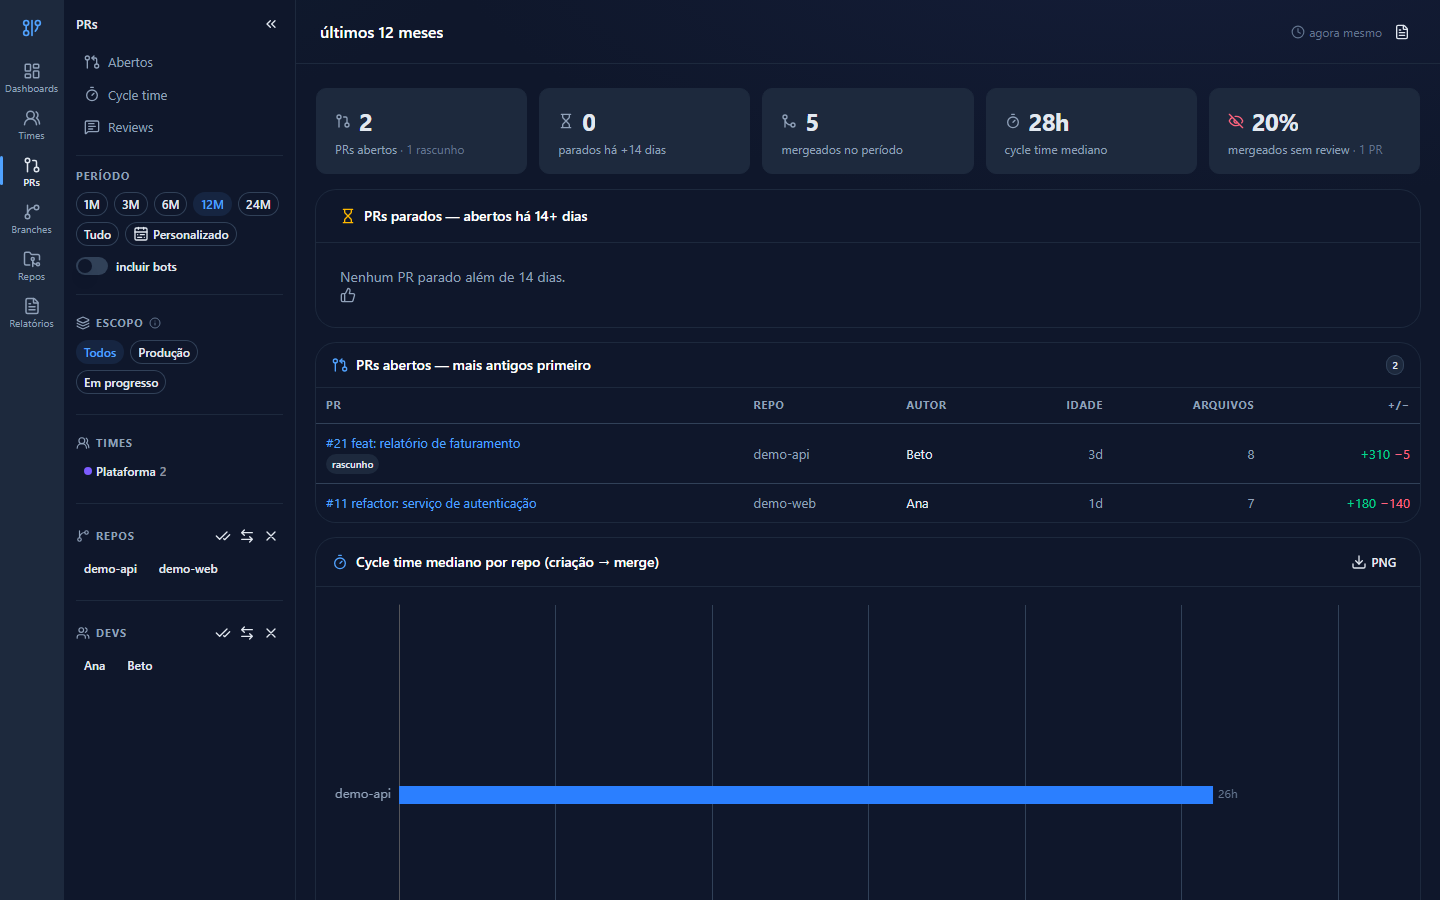
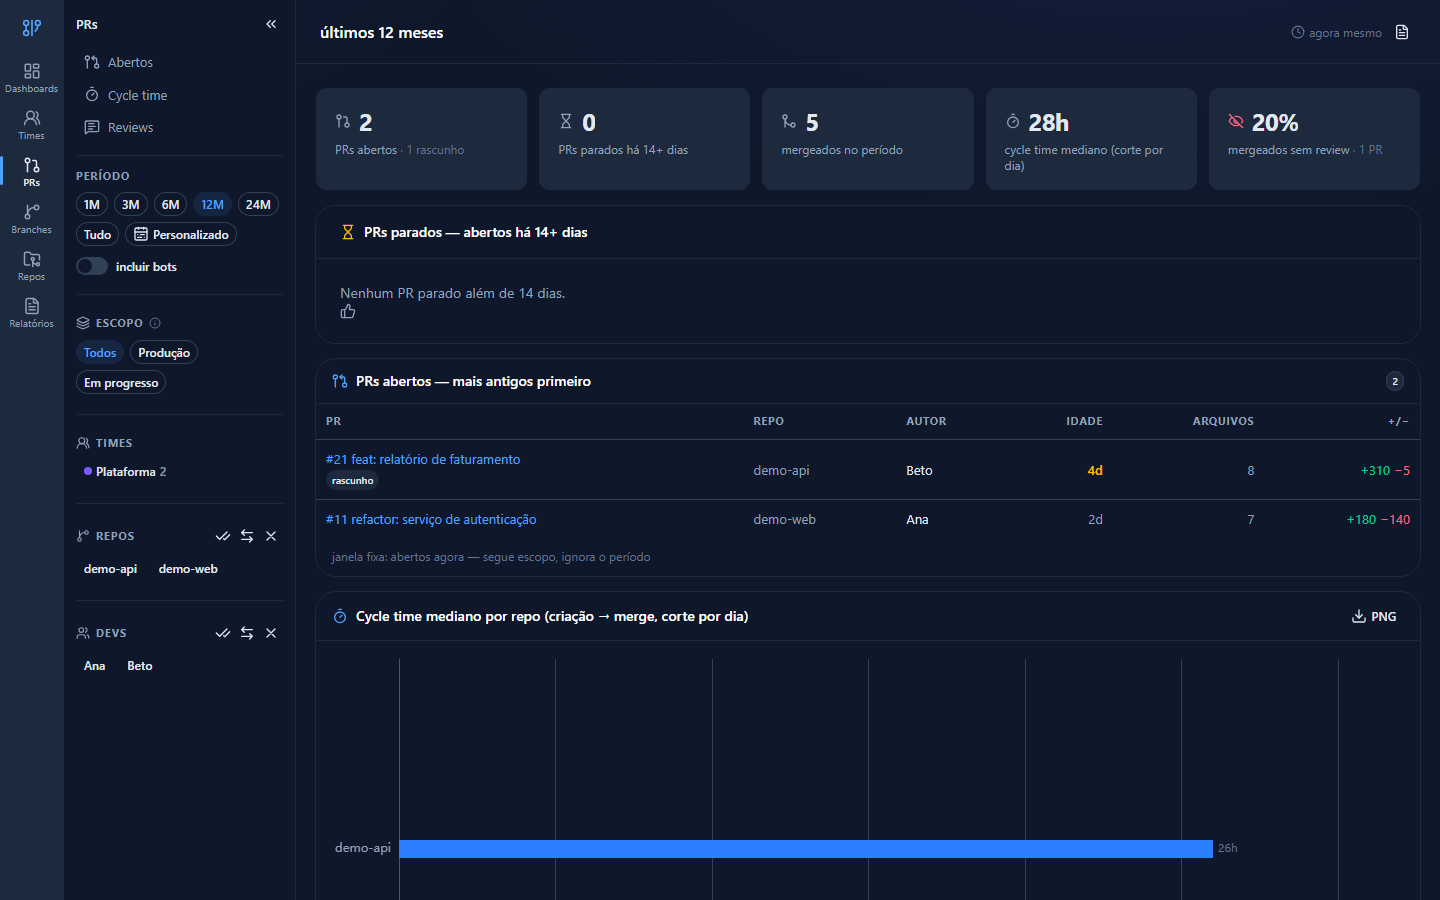
fix(gitview): rótulos de cycle time mediano nomeiam a granularidade do corte
Closes #199

Ref: #199

diff --git a/scripts/check-report.ts b/scripts/check-report.ts
@@ -214,7 +214,7 @@ try {
   ok(orgMd.includes('6 commits (+100% vs semana anterior) · 3 PRs mergeados (+200% vs semana anterior) · cycle time 5,0d · 1 release'), 'org: abertura (frase de ata) na semana fechada')
   ok(orgMd.includes('- repos mais ativos: demo-api (5), demo-web (1)'), 'org: top repos')
   ok(orgMd.includes('- diff: +20/-4 (prod 5 · progresso 1 commits)'), 'org: linha de +/− com quebra prod/progresso (omit-prod)')
-  ok(orgMd.includes('- **3 mergeados** (+200% vs semana anterior), cycle time mediano 5,0d'), 'org: PRs mergeados com delta e cycle time mediano')
+  ok(orgMd.includes('- **3 mergeados** (+200% vs semana anterior), cycle time mediano (janela do relatório) 5,0d'), 'org: PRs mergeados com delta e cycle time mediano')
   ok(orgMd.includes('- 1 aberto agora, **1 parado há 14+ dias**: demo-api#5 (25d)'), 'org: PRs abertos/parados (bots fora)')
   ok(orgMd.includes('- 33% mergeados sem review (1 PR)'), 'org: % de merges sem review')
   ok(orgMd.includes('- top reviewers: Beto (1), Ana (1)'), 'org: top reviewers por nome canônico (ghName do login)')
@@ -251,7 +251,7 @@ try {
   ok(teamMd.includes('- **5 commits** (+67% vs semana anterior), 1 dev ativo, 1 repo ativo'), 'time: commits só dos membros')
   ok(teamMd.includes('5 commits (+67% vs semana anterior) · 1 PR mergeado · cycle time 5,0d · 1 release'), 'time: abertura na semana fechada')
   ok(teamMd.includes('- Ana: 5 commits (+2) · 1 PR mergeado · 1 review'), 'time: linha por dev só dos membros')
-  ok(teamMd.includes('- **1 mergeado**, cycle time mediano 5,0d'), 'time: PRs mergeados por membro; base 0 na semana anterior = sem delta')
+  ok(teamMd.includes('- **1 mergeado**, cycle time mediano (janela do relatório) 5,0d'), 'time: PRs mergeados por membro; base 0 na semana anterior = sem delta')
   ok(teamMd.includes('- top reviewers: Beto (1)'), 'time: reviews de terceiros nos PRs do time')
   ok(teamMd.includes('## Releases'), 'time: releases entram (só org/time)')
   ok(!teamMd.includes('- devs sem commit há 21+ dias: Beto'), 'time: inatividade filtrada aos membros (Beto não é membro)')
@@ -263,14 +263,14 @@ try {
   ok(anaMd.includes('Resumo da semana · Ana —'), 'dev: assunto no título')
   ok(anaMd.includes('5 commits (+67% vs semana anterior) · 1 PR mergeado · cycle time 5,0d'), 'dev: abertura sem parcela de releases (fora do assunto dev)')
   ok(anaMd.includes('- top devs: Ana (5)'), 'dev: bloco de commits mantém o formato atual (sem a seção nova)')
-  ok(anaMd.includes('- **1 mergeado**, cycle time mediano 5,0d'), 'dev: PRs mergeados do dev')
+  ok(anaMd.includes('- **1 mergeado**, cycle time mediano (janela do relatório) 5,0d'), 'dev: PRs mergeados do dev')
   ok(anaMd.includes('- reviews feitas: 1'), 'dev: top reviewers vira "reviews feitas"')
   ok(!anaMd.includes('## Releases'), 'dev: releases fora do assunto dev')
   ok(!anaMd.includes('repos sem commit'), 'dev: repos stale fora do assunto dev')
   ok(!anaMd.includes('- sem time:') && !anaMd.includes('times podem sobrepor'), 'dev: sem bloco de times')
   const betoMd = buildReport({ kind: 'dev', dev: 'Beto' }, lw.from, lw.to, undefined, { people: true })!.markdown
   ok(betoMd.includes('- **1 commit**, 1 dev ativo, 1 repo ativo'), 'dev: singularização commit/dev/repo')
-  ok(betoMd.includes('- **2 mergeados** (+100% vs semana anterior), cycle time mediano 3,0d'), 'dev: cycle time mediano dos PRs do dev')
+  ok(betoMd.includes('- **2 mergeados** (+100% vs semana anterior), cycle time mediano (janela do relatório) 3,0d'), 'dev: cycle time mediano (janela do relatório) dos PRs do dev')
   ok(betoMd.includes('1 commit · 2 PRs mergeados (+100% vs semana anterior) · cycle time 3,0d'), 'dev: abertura omite o delta em base 0 (1 commit sem comparativo)')
   ok(betoMd.includes('- devs sem commit há 21+ dias: Beto'), 'dev: inatividade do próprio dev')
 

diff --git a/src/report.ts b/src/report.ts
@@ -488,7 +488,7 @@ export function buildReport(subject: ReportSubject, from: Date, to: Date, inProg
         .filter(x => x.age >= PR_STALE_DAYS)
         .sort((a, b) => b.age - a.age)
 
-      out.push(`- **${merged.length} ${merged.length === 1 ? 'mergeado' : 'mergeados'}**${delta(merged.length, prevMerged)}, cycle time mediano ${fmtDuration(cycle)}`)
+      out.push(`- **${merged.length} ${merged.length === 1 ? 'mergeado' : 'mergeados'}**${delta(merged.length, prevMerged)}, cycle time mediano (janela do relatório) ${fmtDuration(cycle)}`)
       out.push(`- ${open.length} ${open.length === 1 ? 'aberto agora' : 'abertos agora'}, **${stale.length} ${stale.length === 1 ? 'parado' : 'parados'} há ${PR_STALE_DAYS}+ dias**${stale.length ? `: ${stale.slice(0, 3).map(x => `${x.pr.repo}#${x.pr.number} (${x.age}d)`).join(', ')}${stale.length > 3 ? '…' : ''}` : ''}`)
       out.push(`- ${noReviewPct}% mergeados sem review${noReview.length ? ` (${noReview.length} ${noReview.length === 1 ? 'PR' : 'PRs'})` : ''}`)
       if (subject.kind === 'dev') {

diff --git a/src/components/dev/DevStatCards.vue b/src/components/dev/DevStatCards.vue
@@ -100,7 +100,7 @@ const cards = computed<{ value: string, label: string, icon?: string, color?: st
   if (github.value) {
     base.push(
       { value: String(myOpen.value.length), label: myOpen.value.length === 1 ? 'PR aberto' : 'PRs abertos', icon: 'i-lucide-git-pull-request' },
-      { value: fmtDuration(myCycleHours.value), label: 'cycle time mediano', icon: 'i-lucide-timer' },
+      { value: fmtDuration(myCycleHours.value), label: 'cycle time mediano (PRs do mês)', icon: 'i-lucide-timer' },
       { value: `${myReviews.value.total} (${myReviews.value.approvals} aprovações)`, label: 'reviews feitas', icon: 'i-lucide-eye' },
     )
   }

diff --git a/src/pages/(app)/repos/[name].vue b/src/pages/(app)/repos/[name].vue
@@ -128,7 +128,7 @@ const cards = computed<{ value: string, label: string, icon?: string, color?: st
   if (github.value) {
     base.push(
       { value: String(openPrs.value.length), label: openPrs.value.length === 1 ? 'PR aberto' : 'PRs abertos', icon: 'i-lucide-git-pull-request' },
-      { value: fmtDuration(cycleHours.value), label: 'cycle time mediano', icon: 'i-lucide-timer' },
+      { value: fmtDuration(cycleHours.value), label: 'cycle time mediano (PRs do mês)', icon: 'i-lucide-timer' },
     )
   }
   return base

diff --git a/src/components/PrCycleTime.vue b/src/components/PrCycleTime.vue
@@ -44,5 +44,5 @@ const option = computed<EChartsOption>(() => {
 </script>
 
 <template>
-  <ChartPanel title="Cycle time mediano por repo (criação → merge)" icon="i-lucide-timer" :option="option" tall />
+  <ChartPanel title="Cycle time mediano por repo (criação → merge, corte por dia)" icon="i-lucide-timer" :option="option" tall />
 </template>

diff --git a/src/components/PrSummaryCards.vue b/src/components/PrSummaryCards.vue
@@ -33,7 +33,7 @@ const cards = computed(() => {
     },
     {
       value: fmtDuration(medianCycleHours.value),
-      label: 'cycle time mediano',
+      label: 'cycle time mediano (corte por dia)',
       icon: 'i-lucide-timer',
       sub: null,
     },

diff --git a/docs/pt-BR/guide/tour.md b/docs/pt-BR/guide/tour.md
@@ -32,7 +32,7 @@ Cada nome de dev abre o perfil `/devs/:name`.
 
 Responde o que a pessoa fez no período selecionado. `/dev/:name` continua como alias; nome sem correspondência nos dados mostra **Dev não encontrado** com sugestões **Quis dizer:**.
 
-- Cards de **commits**, **linhas +**, **linhas −** no período, mais os cards históricos **dias ativos**, **commits/dia ativo**, **streak** e **repositórios**: com período ativo ganham o sufixo **(total)**, e sob recorte de escopo leem o eixo selecionado (prod/progresso) quando a linha tem `byScope`, degradando para o total histórico com **(total)** em dado mais antigo; com dados do GitHub, também **PRs abertos**, **cycle time mediano**, **reviews feitas**.
+- Cards de **commits**, **linhas +**, **linhas −** no período, mais os cards históricos **dias ativos**, **commits/dia ativo**, **streak** e **repositórios**: com período ativo ganham o sufixo **(total)**, e sob recorte de escopo leem o eixo selecionado (prod/progresso) quando a linha tem `byScope`, degradando para o total histórico com **(total)** em dado mais antigo; com dados do GitHub, também **PRs abertos**, **cycle time mediano (PRs do mês)**, **reviews feitas**.
 - **Commits por semana** / **Commits por mês** só deste dev.
 - **Distribuição por repositório** (donut) e **Horários de atividade —** *\<janela\>*, que em **Tudo** vira **Horários de atividade — últimos 24 meses** (limite da agregação).
 - **PRs abertos de** *\<primeiro nome\>*: estado atual, não recortado ao período.
@@ -61,8 +61,8 @@ As tabelas ordenam onde existe coluna de risco; os alertas da Visão geral apont
 
 Depende dos dados do GitHub, coletados com `gh` autenticado; sem eles a página mostra **Sem dados do GitHub**. O sub-nav contextual cobre três âncoras e os alertas da Visão geral caem em `#abertos` e `#reviews`.
 
-- `#abertos`: cards **PRs abertos** (com linha auxiliar de rascunhos), **PRs parados há 14+ dias**, **mergeados no período**, **cycle time mediano**, **mergeados sem review**; depois **PRs parados — abertos há 14+ dias** e **PRs abertos — mais antigos primeiro**.
-- `#cycle-time`: **Cycle time mediano por repo (criação → merge)** e **Tendência de cycle time — últimos 6 meses**, de janela fixa.
+- `#abertos`: cards **PRs abertos** (com linha auxiliar de rascunhos), **PRs parados há 14+ dias**, **mergeados no período**, **cycle time mediano (corte por dia)**, **mergeados sem review**; depois **PRs parados — abertos há 14+ dias** e **PRs abertos — mais antigos primeiro**.
+- `#cycle-time`: **Cycle time mediano por repo (criação → merge, corte por dia)** e **Tendência de cycle time — últimos 6 meses**, de janela fixa.
 - `#reviews`: **Reviews por dev (no período)**.
 
 Linhas de PR abrem o GitHub.
@@ -96,7 +96,7 @@ O inventário de branches da coleta completa (`branches.json`); a página ignora
 
 `/repo/:name` continua como alias; nome desconhecido mostra **Repo não encontrado**. O período vale para commits, gráficos, PRs mergeados e cycle time; releases e PRs abertos são marcos ou estado atual, como descreve [Regras dos filtros](../dashboard/filters.md).
 
-- Cards de **commits**, **linhas +**, **linhas −**, **devs** no período, **commits (total)** quando há período ou recorte de escopo ativo, **última release (há Nd)**, **commits não liberados** (cor por threshold), **dev principal** com a participação do topo (colorida acima de 50% e 70%) e, com dados do GitHub, **PRs abertos** e **cycle time mediano**.
+- Cards de **commits**, **linhas +**, **linhas −**, **devs** no período, **commits (total)** quando há período ou recorte de escopo ativo, **última release (há Nd)**, **commits não liberados** (cor por threshold), **dev principal** com a participação do topo (colorida acima de 50% e 70%) e, com dados do GitHub, **PRs abertos** e **cycle time mediano (PRs do mês)**.
 - **Tipos de commit** (donut) e **Commits por dev** (barras, top 10).
 - **Releases**: tag / data / commits / notas, badge **pré** para prereleases e **notas** expansível inline; as 30 tags mais recentes, com aviso. As contagens de commits *entre* tags seguem o período onde aparecem.
 - `#grafo` **Grafo de commits**: a janela de commits do repo desenhada como grafo de lanes em SVG puro — uma lane colorida por branch, commits de merge como círculos vazados, chips de refs que destacam a lane no hover (clique fixa), linhas linkando o commit no GitHub e tooltip com o assunto completo, autor, data e refs. A janela é fixa (os últimos *N* commits, rotulados no rodapé) e ignora os filtros de período/bots/escopo: pais fora da janela viram arestas tracejadas **continua** e **Mostrar mais antigos** cresce o desenho de 300 em 300 linhas. Descrição completa em [Commit graph](../dashboard/graph.md).
@@ -117,7 +117,7 @@ Só no dev server; no build estático a página avisa **edição só no modo dev
 
 Os mesmos painéis da Visão geral, com a seleção de devs travada nos membros do time (o cadastro de times é a fonte da verdade). O cabeçalho traz o chip do time, o rótulo da janela, o botão **times** e **ver como filtro livre**, que abre `/?devs=<membros>` como filtro editável.
 
-Painéis: cards de resumo, commits por semana, **Dev × mês (comparação)** e tipos de commit; com dados do GitHub, os cards de PR, **PRs abertos — mais antigos primeiro** e **Cycle time mediano por repo**; e **Fora do horário**. Chips de membros abrem `/devs/:name`; time renomeado redireciona a partir da URL antiga; nome desconhecido mostra **Time não encontrado** com **Times disponíveis:**.
+Painéis: cards de resumo, commits por semana, **Dev × mês (comparação)** e tipos de commit; com dados do GitHub, os cards de PR, **PRs abertos — mais antigos primeiro** e **Cycle time mediano por repo (criação → merge, corte por dia)**; e **Fora do horário**. Chips de membros abrem `/devs/:name`; time renomeado redireciona a partir da URL antiga; nome desconhecido mostra **Time não encontrado** com **Times disponíveis:**.
 
 ## Resumo semanal: a exportação pronta para a reunião
 

diff --git a/docs/guide/tour.md b/docs/guide/tour.md
@@ -32,7 +32,7 @@ Each dev name opens the profile `/devs/:name`.
 
 Answers what the person did in the selected period. `/dev/:name` stays as an alias; a name with no match in the data shows **Dev não encontrado** with **Quis dizer:** (did you mean) suggestions.
 
-- Cards for **commits**, **linhas +**, **linhas −** in the period, plus the historical cards **dias ativos**, **commits/dia ativo**, **streak** and **repositórios**: with a period active they carry the **(total)** suffix, and under a work-scope cut they read the selected scope (prod/progress) when the data carries `byScope`, degrading to the historical total with **(total)** on older data; with GitHub data, also **PRs abertos**, **cycle time mediano**, **reviews feitas**.
+- Cards for **commits**, **linhas +**, **linhas −** in the period, plus the historical cards **dias ativos**, **commits/dia ativo**, **streak** and **repositórios**: with a period active they carry the **(total)** suffix, and under a work-scope cut they read the selected scope (prod/progress) when the data carries `byScope`, degrading to the historical total with **(total)** on older data; with GitHub data, also **PRs abertos**, **cycle time mediano (PRs do mês)**, **reviews feitas**.
 - **Commits por semana** / **Commits por mês** for this dev only.
 - **Distribuição por repositório** (donut) and **Horários de atividade —** *\<window\>*, which under **Tudo** becomes **Horários de atividade — últimos 24 meses** (the aggregation limit).
 - **PRs abertos de** *\<first name\>*: current state, not scoped to the period.
@@ -61,8 +61,8 @@ The tables sort where a risk column exists; the Visão geral alerts point here a
 
 Depends on GitHub data, collected with an authenticated `gh`; without it the page shows **Sem dados do GitHub**. The contextual sub-nav covers three anchors, and the Visão geral alerts land on `#abertos` and `#reviews`.
 
-- `#abertos`: cards **PRs abertos** (with a drafts sub-line), **PRs parados há 14+ dias**, **mergeados no período**, **cycle time mediano**, **mergeados sem review**; then **PRs parados — abertos há 14+ dias** and **PRs abertos — mais antigos primeiro**.
-- `#cycle-time`: **Cycle time mediano por repo (criação → merge)** and **Tendência de cycle time — últimos 6 meses**, a fixed window.
+- `#abertos`: cards **PRs abertos** (with a drafts sub-line), **PRs parados há 14+ dias**, **mergeados no período**, **cycle time mediano (corte por dia)**, **mergeados sem review**; then **PRs parados — abertos há 14+ dias** and **PRs abertos — mais antigos primeiro**.
+- `#cycle-time`: **Cycle time mediano por repo (criação → merge, corte por dia)** and **Tendência de cycle time — últimos 6 meses**, a fixed window.
 - `#reviews`: **Reviews por dev (no período)**.
 
 PR rows open GitHub.
@@ -96,7 +96,7 @@ Repository index, with an anchor sub-nav (**Tabela**, **Linhas +/−**, **Distri
 
 `/repo/:name` stays as an alias; an unknown name shows **Repo não encontrado**. The period applies to commits, charts, merged PRs and cycle time; releases and open PRs are milestones or current state, as [Filter rules](../dashboard/filters.md) describes.
 
-- Cards for **commits**, **linhas +**, **linhas −**, **devs** in the period, **commits (total)** when a period or a scope cut is active, **última release (há Nd)**, **commits não liberados** (color by threshold), **dev principal** with the top share (colored above 50% and 70%) and, with GitHub data, **PRs abertos** and **cycle time mediano**.
+- Cards for **commits**, **linhas +**, **linhas −**, **devs** in the period, **commits (total)** when a period or a scope cut is active, **última release (há Nd)**, **commits não liberados** (color by threshold), **dev principal** with the top share (colored above 50% and 70%) and, with GitHub data, **PRs abertos** and **cycle time mediano (PRs do mês)**.
 - **Tipos de commit** (donut) and **Commits por dev** (bars, top 10).
 - **Releases**: tag / data / commits / notas, the **pré** badge for prereleases and inline-expandable **notas**; the 30 most recent tags, with a notice. The commit counts *between* tags follow the period where they appear.
 - `#grafo` **Grafo de commits**: the repo's commit window drawn as a pure-SVG lane graph — one colored lane per branch, merge commits as hollow circles, ref chips that highlight the lane on hover (click to pin), rows linking to the commit on GitHub and a tooltip with the full subject, author, date and refs. The window is fixed (the last *N* commits, labeled in the footer) and ignores the period/bots/scope filters: parents outside the window end in dashed **continua** edges and **Mostrar mais antigos** grows the drawing 300 rows at a time. Full description in [Commit graph](../dashboard/graph.md).
@@ -117,7 +117,7 @@ Dev server only; in the static build the page shows **edição só no modo dev**
 
 The same panels as Visão geral, with the dev selection locked to the team members (the team registry is the source of truth). The header carries the team chip, the window label, the **times** button and **ver como filtro livre** (view as a free filter), which opens `/?devs=<members>` as an editable filter.
 
-Panels: summary cards, commits per week, **Dev × mês (comparação)** and commit types; with GitHub data, the PR cards, **PRs abertos — mais antigos primeiro** and **Cycle time mediano por repo**; and **Fora do horário**. Member chips open `/devs/:name`; a renamed team redirects from the old URL; an unknown name shows **Time não encontrado** with **Times disponíveis:**.
+Panels: summary cards, commits per week, **Dev × mês (comparação)** and commit types; with GitHub data, the PR cards, **PRs abertos — mais antigos primeiro** and **Cycle time mediano por repo (criação → merge, corte por dia)**; and **Fora do horário**. Member chips open `/devs/:name`; a renamed team redirects from the old URL; an unknown name shows **Time não encontrado** with **Times disponíveis:**.
 
 ## Weekly summary: the meeting-ready export
 

diff --git a/docs/dashboard/metrics.md b/docs/dashboard/metrics.md
@@ -64,7 +64,7 @@ From the GitHub collection: every open PR plus the ones merged in the last 400 d
 
 **PR aging**: `days since createdAt` in whole days up to now, with 0 shown as "hoje" (today). **PRs abertos — mais antigos primeiro** paints age amber above 3 days and red above 7. **PRs parados — abertos há 14+ dias** lists the 5 oldest with age `≥ 14` (`mostrando N de M`; the full list is on the **PRs abertos — mais antigos primeiro** panel) and the badge turns error with 5 or more stale PRs.
 
-**Cycle time**: `cycleHours = (mergedAt - createdAt) / 3_600_000`. The **cycle time mediano** card is the median over PRs merged in the period: an even count uses the mean of the two central values, and with no PRs the result is 0. Per repo, only repos with 3 or more merged PRs in the period qualify. The **Tendência de cycle time** panel uses the last 6 months: one median per month, months with no PRs skipped, `subindo` (rising) when the last 3 months with data are strictly increasing, and repos with fewer than 3 PRs in the window stay out.
+**Cycle time**: `cycleHours = (mergedAt - createdAt) / 3_600_000`. The **cycle time mediano** card names its cut: **cycle time mediano (corte por dia)** (`/prs` and the team page) is the median over PRs merged within the exact day window of the filter, while **cycle time mediano (PRs do mês)** (dev and repo detail) covers whole months touched by the window — the same period therefore shows different numbers per page. An even count uses the mean of the two central values, and with no PRs the result is 0. Per repo (**Cycle time mediano por repo (criação → merge, corte por dia)**, day cut), only repos with 3 or more merged PRs in the window qualify. The **Tendência de cycle time** panel uses the last 6 months: one median per month, months with no PRs skipped, `subindo` (rising) when the last 3 months with data are strictly increasing, and repos with fewer than 3 PRs in the window stay out.
 
 **Reviews per dev and concentration per repo**: counts the reviews of PRs merged in the period, no self-review and no bots. **Reviews por dev** splits into total, `APPROVED` and `CHANGES_REQUESTED`. **Concentração por repo** is `top reviewer reviews / third-party reviews in the period`, sorted by that value.
 

diff --git a/docs/pt-BR/dashboard/metrics.md b/docs/pt-BR/dashboard/metrics.md
@@ -64,7 +64,7 @@ Vêm da coleta do GitHub: todo PR aberto mais os mergeados dos últimos 400 dias
 
 **Envelhecimento de PR**: `dias desde createdAt` em dias inteiros até agora, com 0 exibido como "hoje". **PRs abertos — mais antigos primeiro** pinta a idade de âmbar acima de 3 dias e vermelho acima de 7. **PRs parados — abertos há 14+ dias** lista os 5 mais antigos com idade `≥ 14` (`mostrando N de M`; a lista completa está no painel **PRs abertos — mais antigos primeiro**) e o badge vira erro com 5 ou mais parados.
 
-**Cycle time**: `cycleHours = (mergedAt - createdAt) / 3_600_000`. O card **cycle time mediano** é a mediana sobre os PRs mergeados no período: contagem par usa a média dos dois valores centrais e sem PR o resultado é 0. Por repo, só entram os com 3 ou mais PRs mergeados no período. A **Tendência de cycle time** usa os últimos 6 meses: uma mediana por mês, meses sem PR pulados, `subindo` quando os últimos 3 meses com dados são estritamente crescentes, e repos com menos de 3 PRs na janela ficam fora.
+**Cycle time**: `cycleHours = (mergedAt - createdAt) / 3_600_000`. O card **cycle time mediano** nomeia o corte: **cycle time mediano (corte por dia)** (`/prs` e a página de time) é a mediana sobre os PRs mergeados dentro da janela exata do filtro em dias, enquanto **cycle time mediano (PRs do mês)** (detalhe de dev e de repo) cobre meses inteiros tocados pela janela — o mesmo período, portanto, mostra números diferentes por página. Contagem par usa a média dos dois valores centrais e sem PR o resultado é 0. Por repo (**Cycle time mediano por repo (criação → merge, corte por dia)**, corte por dia), só entram os com 3 ou mais PRs mergeados na janela. A **Tendência de cycle time** usa os últimos 6 meses: uma mediana por mês, meses sem PR pulados, `subindo` quando os últimos 3 meses com dados são estritamente crescentes, e repos com menos de 3 PRs na janela ficam fora.
 
 **Reviews por dev e concentração por repo**: conta as reviews de PRs mergeados no período, sem self-review e sem bots. **Reviews por dev** divide em total, `APPROVED` e `CHANGES_REQUESTED`. **Concentração por repo** é `reviews do top reviewer / reviews de terceiros do período`, ordenada por esse valor.
 

diff --git a/.changeset/cycle-time-rotulos.md b/.changeset/cycle-time-rotulos.md
@@ -1,0 +1,5 @@
+---
+'gitview': patch
+---
+
+Rótulos de cycle time mediano agora nomeiam a granularidade do corte: detalhe de dev e de repo mostram "cycle time mediano (PRs do mês)" (meses inteiros tocados pela janela), /prs e time mostram "cycle time mediano (corte por dia)" (janela exata do filtro) e o relatório mostra "cycle time mediano (janela do relatório)".
